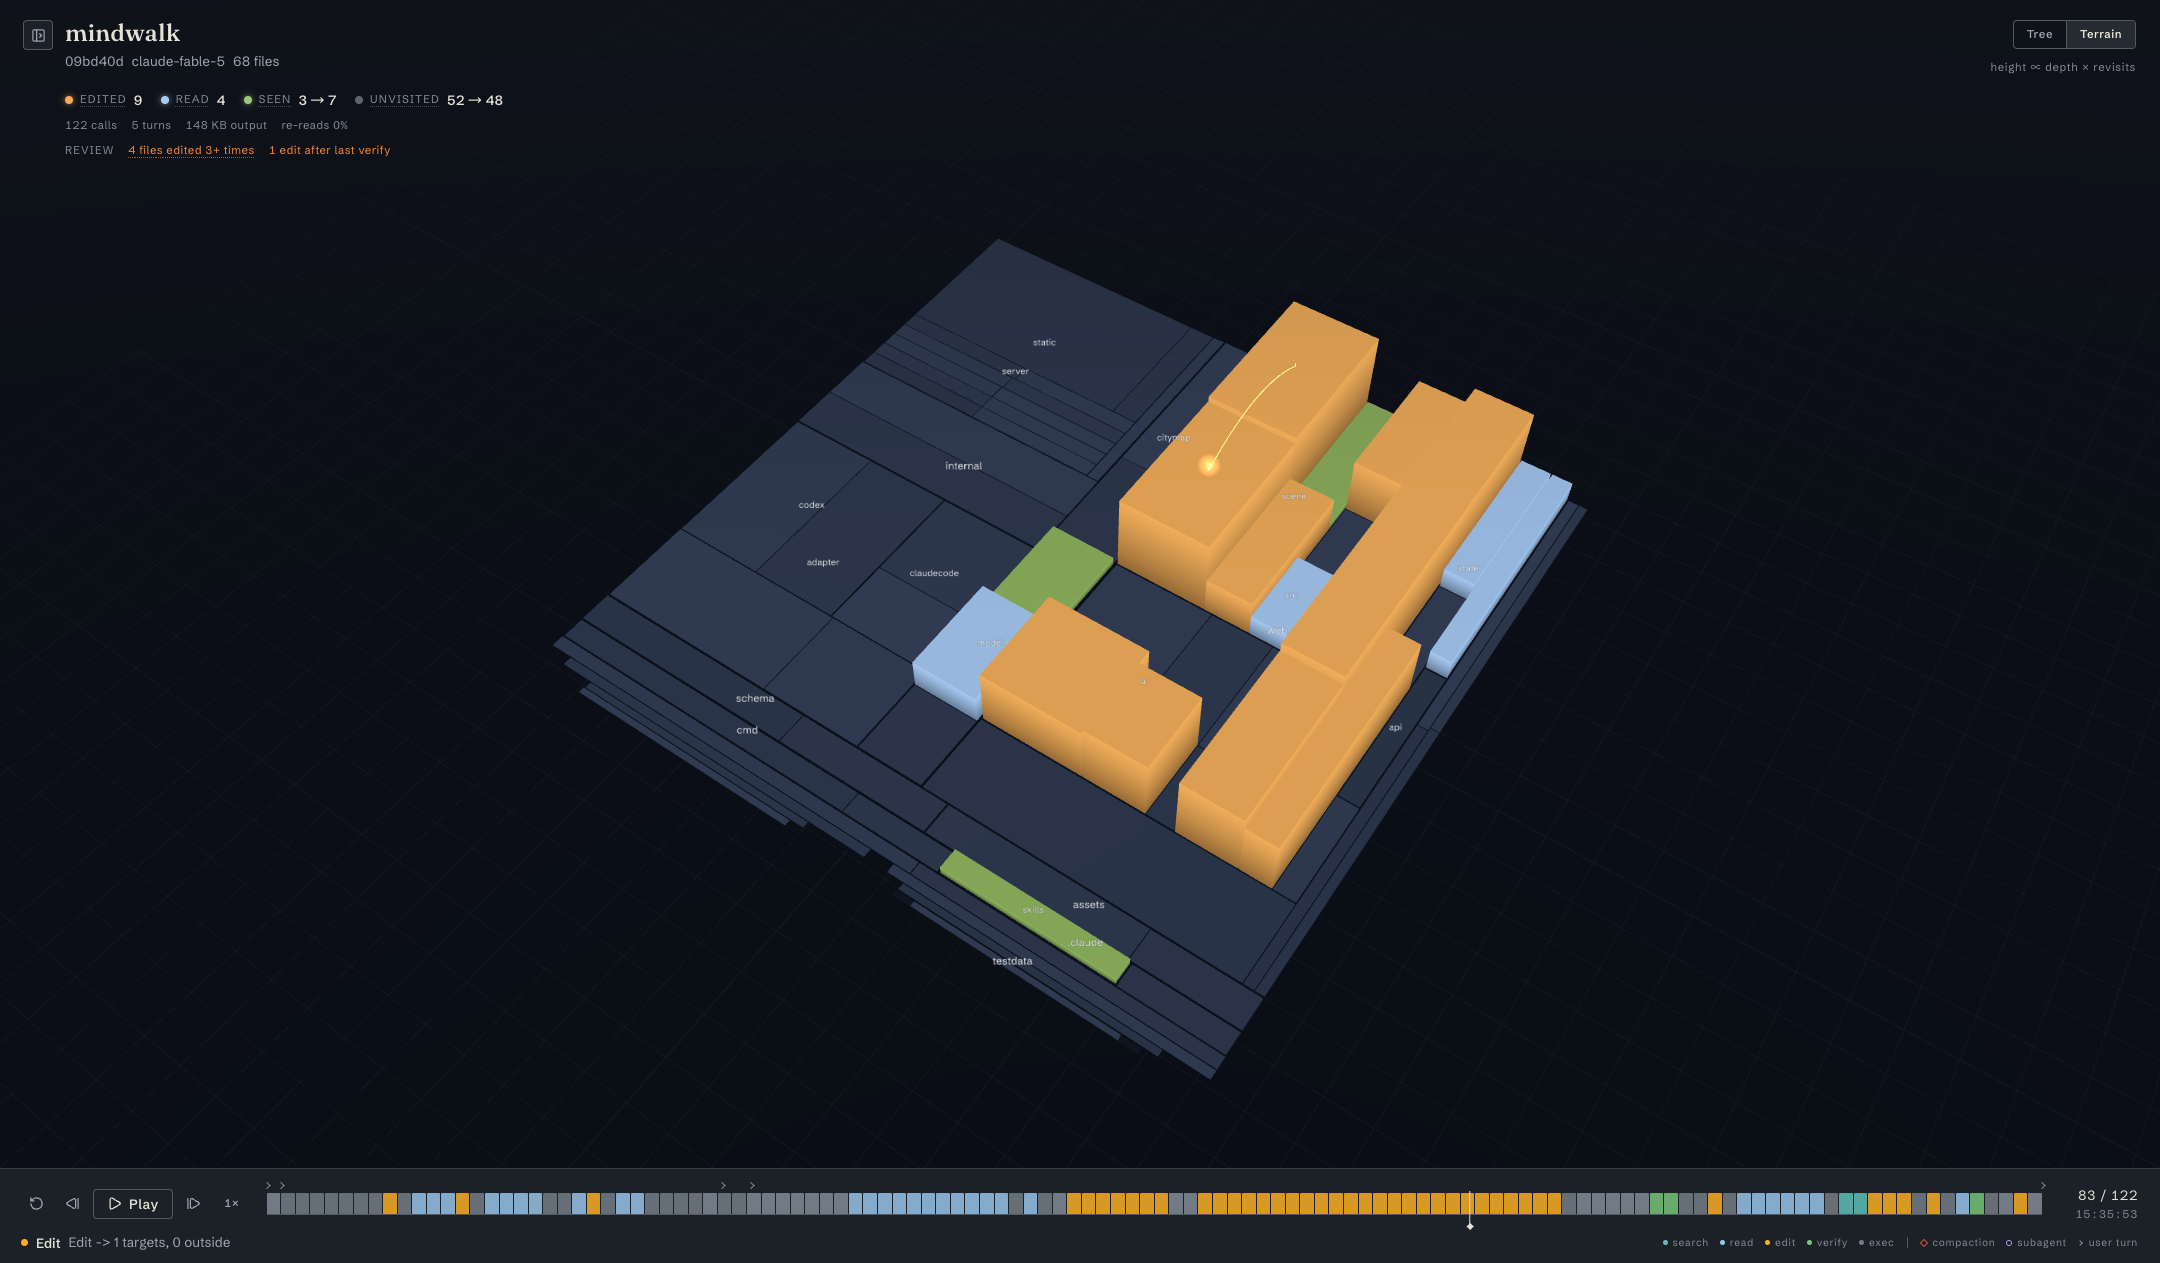
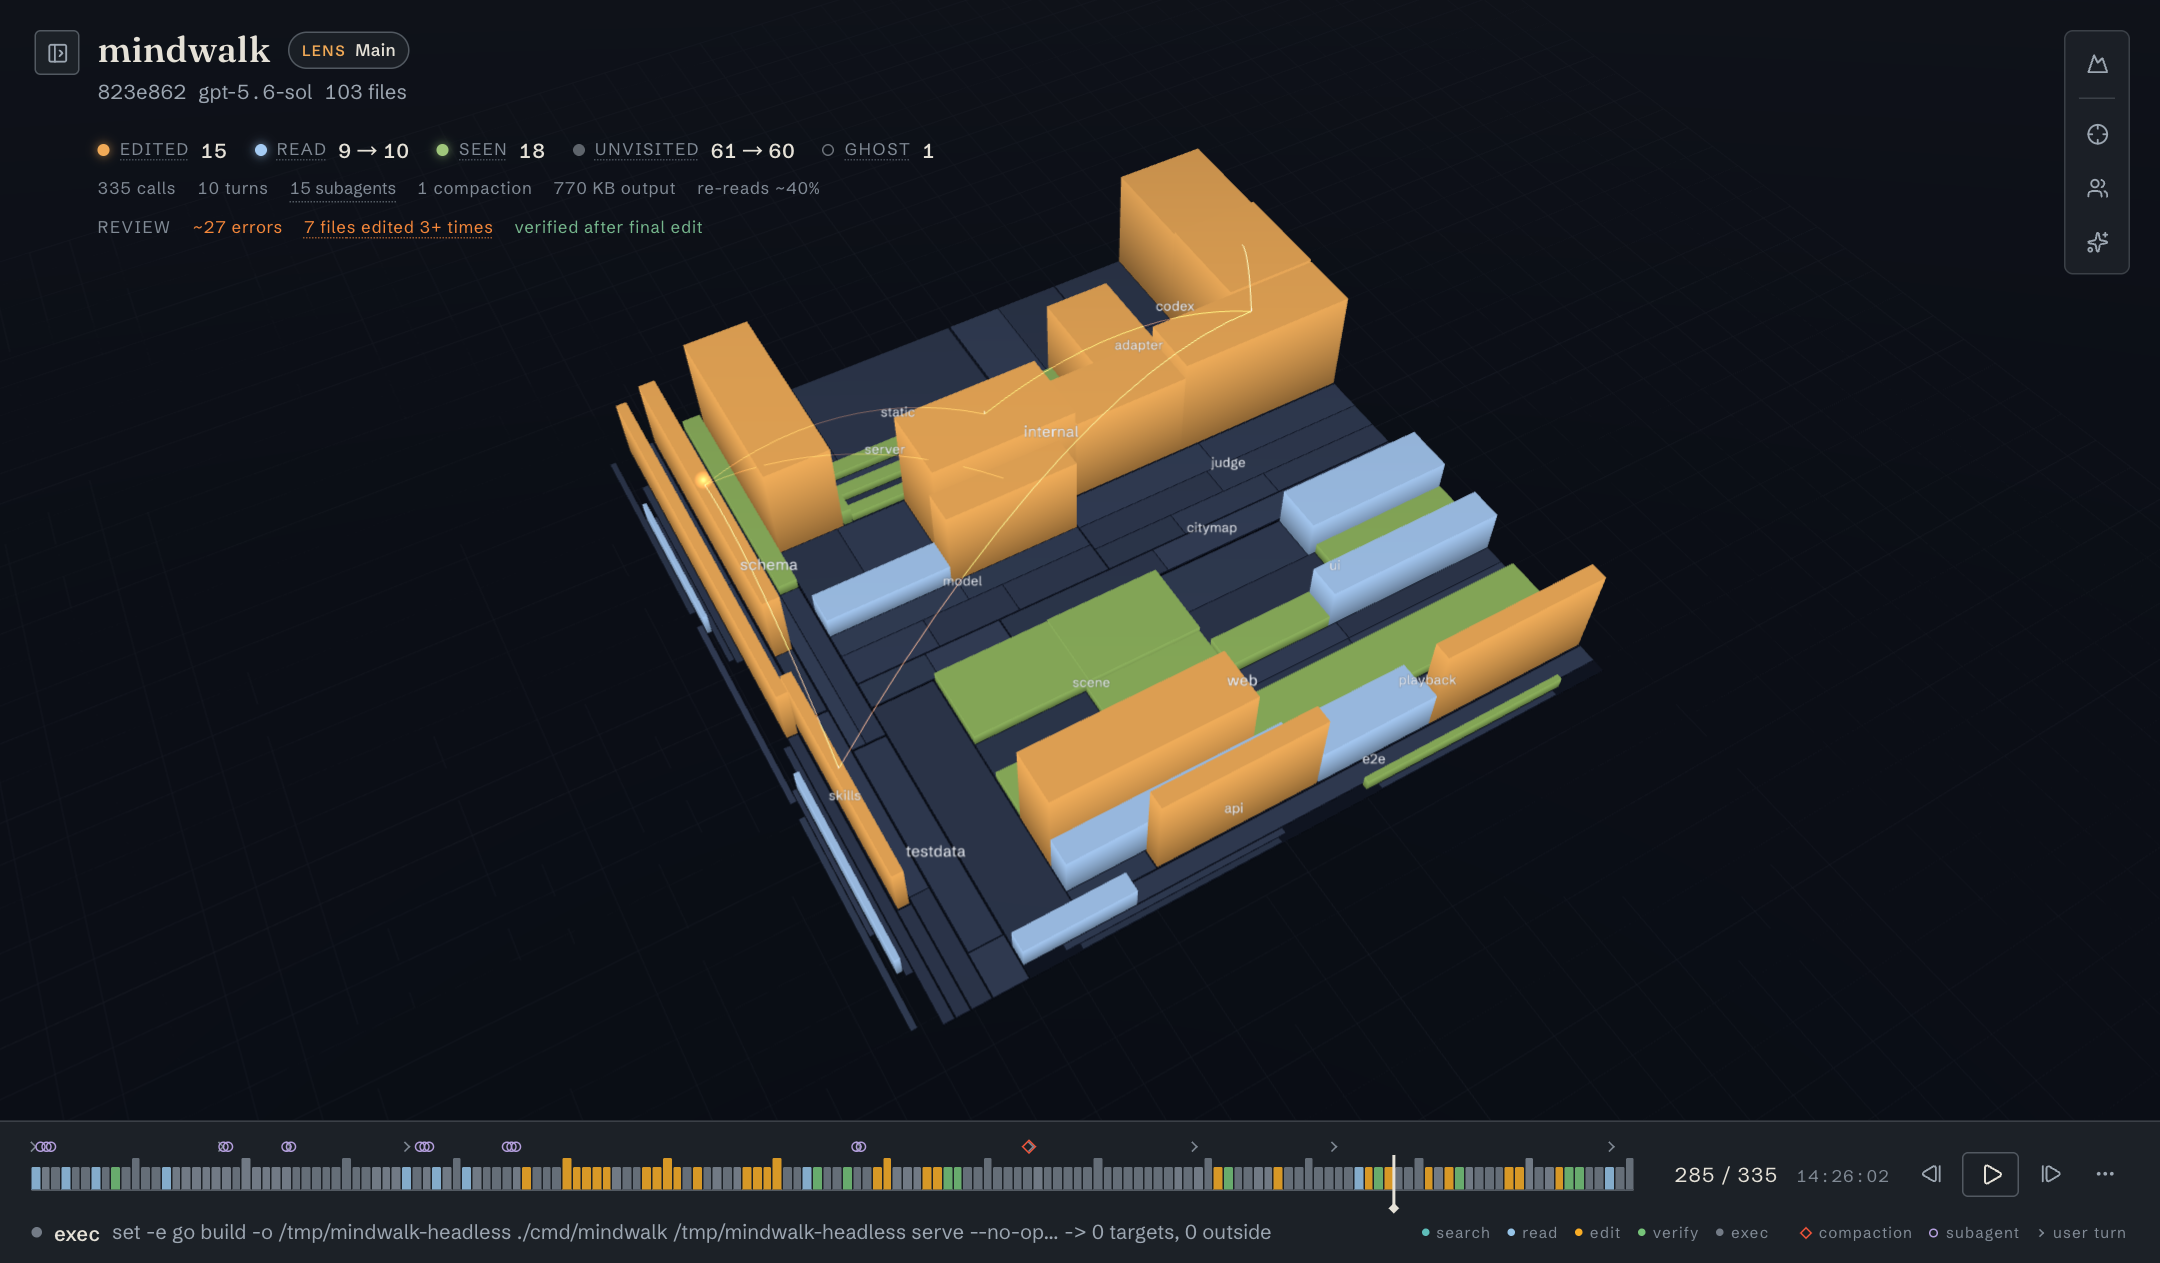
docs: refresh README screenshots and feature notes
Retake the terrain screenshot on the reworked deck and add an Agent
Lens capture; document mindwalk map, agent lenses, ghost files, the
deck's video export, and the V shortcut.

diff --git a/README.md b/README.md
@@ -44,6 +44,7 @@ serves the UI on a random local port, and opens a browser:
 ```text
 mindwalk serve [--port N] [--no-open] [--claude-dir DIR] [--codex-dir DIR]
 mindwalk open [--no-open] <session.jsonl>   open one specific session
+mindwalk map [--no-open] <repo>             open a repository map, no session needed
 mindwalk build <repo> [-o out]              write the repository citymap JSON
 mindwalk trace <session> [-o out]           write the normalized trace JSON
 mindwalk analyze <session> [--judge claude|codex] [--model name]
@@ -55,25 +56,36 @@ mindwalk analyze <session> [--judge claude|codex] [--model name]
 - **Tree / Terrain views** — the repo as a radial tree or a treemap plain;
   glow ∝ how deeply and how often a file was touched.
 - **Touch states** — each file keeps its deepest touch: seen (moss green),
-  read (moon white), edited (warm amber), unvisited (dark). The HUD folds
-  friction signals — error rate, churned files, edits after the last verify —
-  into a review strip.
+  read (moonlight blue), edited (warm amber), unvisited (dark). Files the
+  session touched that are no longer in the repo linger as wireframe ghosts.
+  The HUD folds friction signals — error rate, churned files, edits after the
+  last verify — into a review strip.
 - **Playback deck** — scrub or play the session over a bucketed histogram of
   the run. Bars sit on a cool/warm spectrum: observation stays cool (search,
   read, exec), mutation glows warm (edit, verify), so editing phases jump out
-  at a glance.
+  at a glance. Restart, speed, and video export fold into the deck's `⋯` menu;
+  export records the playback to a `.webm` entirely client-side.
 - **Timeline marks** — `◇` context compactions, `○` subagent launches,
   `›` user turns; every mark is a click-to-jump target.
+- **Agent lenses** — when a session launched subagents, the HUD carries a
+  subagent count and an agents panel: pick a lens to replay any subagent's
+  trace on the same map, then step back out to the main trace.
 - **Inspector** — click a file to pin its visit history; click a visit row to
   jump the playhead to that moment.
 - **Evaluate** — ask a local agent CLI to judge the session's trajectory;
   session rows carry the evaluation state as a quiet badge. See
   [Session evaluation](#session-evaluation).
+- **Repo map** — `mindwalk map <repo>` (or the folder icon in the session
+  rail) renders any repository's citymap with no session attached; height
+  encodes lines of code instead of attention.
 
 ![the same session on the terrain view](assets/screenshot-terrain.png)
 
+![agent lenses over the same session](assets/screenshot-agents.png)
+
 Keyboard: `Space` play/pause · `←`/`→` step (`⇧` ×10) · `Home`/`End` ends ·
-`S` speed · `E` next edit · `X` next error · `M` next mark · `⌘B` session rail.
+`S` speed · `V` view · `E` next edit · `X` next error · `M` next mark ·
+`⌘B` session rail.
 
 ## Session evaluation
 
@@ -99,6 +111,8 @@ Three artifacts, kept deliberately separate:
 
 1. a **trace** — the session log normalized into an ordered stream of
    file-touch events (`internal/adapter`, one adapter per agent format);
+   adapters also correlate subagent sessions into an agent graph, so each
+   subagent's trace can be replayed on its own;
 2. a **citymap** — a deterministic layout of the repository
    (`internal/citymap`); the same tree always produces the same map, so
    replays are comparable across sessions;